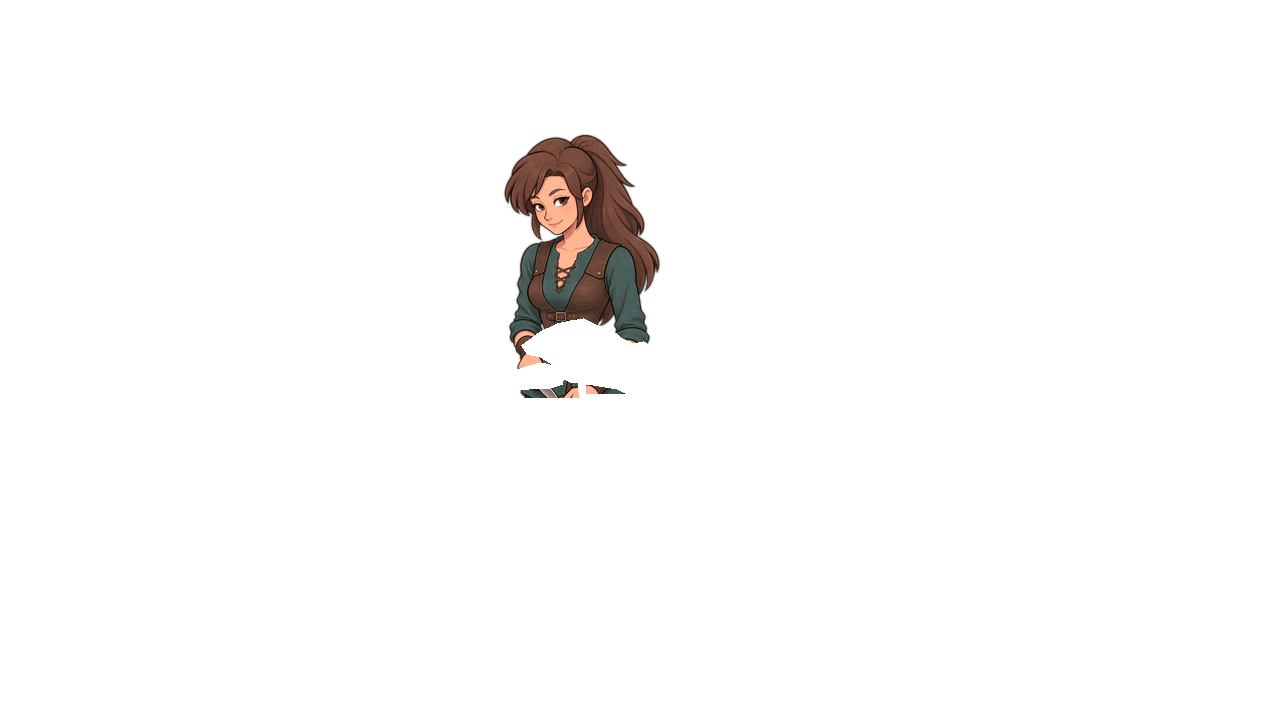
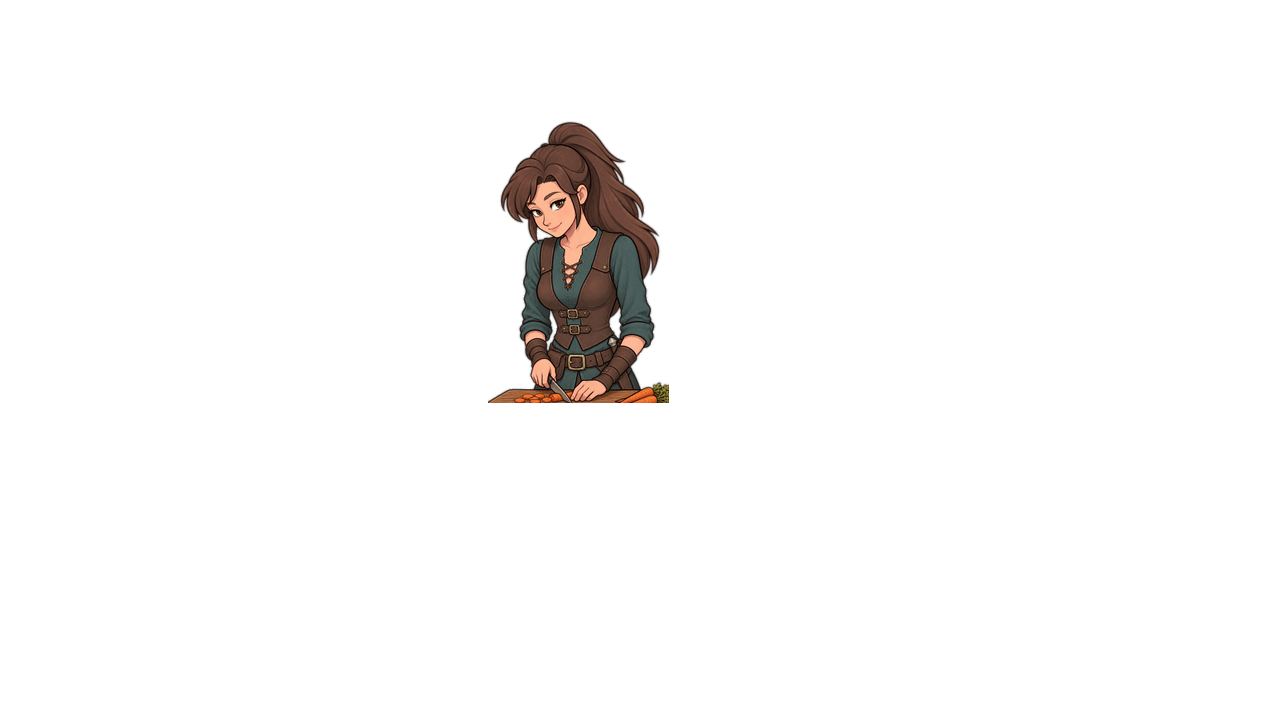
Kitchen: Ruby's cutting board and carrots drawn with her, table cleared
The vegetable pile in the background hid what she was doing. As SS does
(desk + character as one piece), the board and carrots are now part of
her picture, and the kitchen background has the middle of the table
replaced by an empty-table version.

Claude-Session: https://claude.ai/code/session_01WFgBYsqnPjwxzhWx9BLhU6

Changed region(s): [[0.375, 0.1528, 0.5312, 0.5806]]

diff --git a/mosshill/tools/art_recipes.md b/mosshill/tools/art_recipes.md
@@ -78,6 +78,7 @@
 | 단독 인물을 얹었더니 크기·비율이 어색하고 굵은 외곽선이 튐 | 자세·크기를 따로 정함, 원작 흉내로 외곽선을 두름 | 1) 장면을 견본으로 같은 자세의 인물만 다시 그리고, 1) 의 실루엣에 자동으로 겹쳐 맞춘다. 외곽선은 뺀다 |
 | 식탁 뒤에 선 인물이 '식탁 위에 올려 놓은' 것처럼 보임 | 가구 윗면의 앞쪽 모서리에서 잘라 몸이 윗면과 그 위 물건을 덮음 | 윗면 '뒤쪽' 끝에서 자르고(cut), 가구 위에 올린 손만 보이게(show), 가구 위 물건은 인물 앞에(hide) |
 | 다시 그린 인물에서 소품(핍의 안경)이 빠짐 | 장면 견본을 따라 그리며 디자인 일부를 놓침 | 결과를 디자인과 나란히 놓고 확인, 빠진 것만 추가로 그려 넣기 |
+| 인물이 하는 일(당근 썰기)이 배경의 물건(당근 더미)에 가려져 안 보임 | 배경에 원래 있던 물건 뒤에 인물을 세움 | 원작처럼 손에 쓰는 물건(도마·당근)은 인물 그림에 같이 그리고, 배경에서 그 자리 물건은 치운다 |
 | 장면 인물이 고개를 들 때 머리가 10~20% 커지고 인상이 바뀜 | 머리를 통째로 다시 그리게 함 | 머리는 그대로, **눈과 입만** 바꾼다 |
 | 장면 인물이 빤히 쳐다봐서 무서움 | "카메라를 정면으로 보라" | 편안한 눈꺼풀, 살짝 치켜뜬 눈길, 작은 미소 |
 | 장면 인물 눈 색이 바뀜 | 인물 견본 없이 얼굴을 다시 그림 | 인물 몸을 2번 견본으로 넣는다 |
@@ -91,7 +92,8 @@
 | 마르타 표정 기쁨 / 화남 / 놀람 / 말하기 | `img_mwk5fs1nykP7cvOp` / `img_mwk5gla19Zqx0u4w` / `img_mwk5gvn65H1AW9uM` / `img_mwk5h46bAJqzY5hq` |
 | 장소 인물 1) 장면 — 부엌 루비 / 길드 홀 루비 / 선술집 마르타 | `img_mwk5hezcIrN7DtBx` / `img_mwk5hr8xDOZxF9XX` / `img_mwk5j435FcIsnrxc` |
 | 장소 인물 1) 장면 — 잡화점 핍 / 광장 핍 | `img_mwk33ey2wlWuSMdW` / `img_mwk33ndtudBcVSua` |
-| 장소 인물 2) 하던 일 / 앞을 봄 — 부엌 루비 | `img_mwk6nw4m1wRam3g7` / `img_mwk6yj3uQXCRL2am` |
+| 장소 인물 2) 하던 일 / 앞을 봄 — 부엌 루비 (도마·당근 포함) | `img_mwk7pc09G7ElWjcv` / `img_mwk7q63yNWNOkHvU` |
+| 부엌 배경 (식탁 위 채소 치운 판) | `img_mwk7p1h5vMRQxjDf` — 원본 배경에서 식탁 가운데만 이 그림으로 교체 |
 | 길드 홀 루비 | `img_mwk6o5dzKhYphXZU` / `img_mwk6yuuuSZxYZcY3` |
 | 선술집 마르타 | `img_mwk6oedcaIUMwko8` / `img_mwk6z55aHqkz4brz` |
 | 잡화점 핍 (안경 추가본) | `img_mwk78bq8hfBDZSQl` / `img_mwk78mczfQ4x80FA` |
